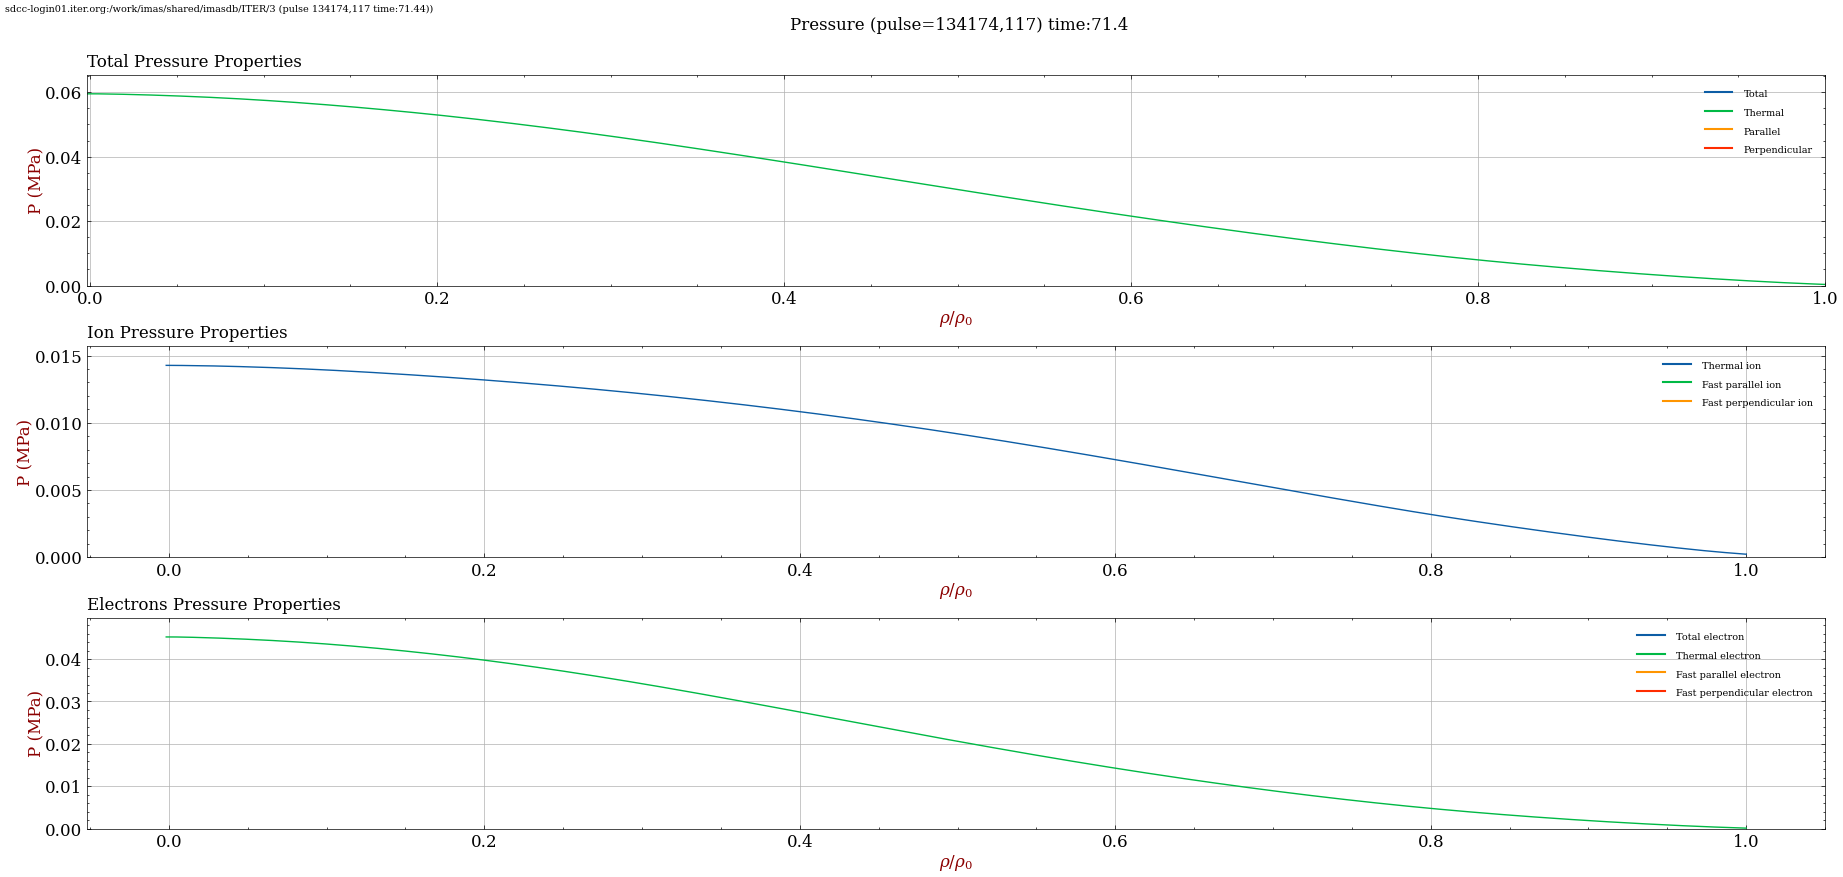
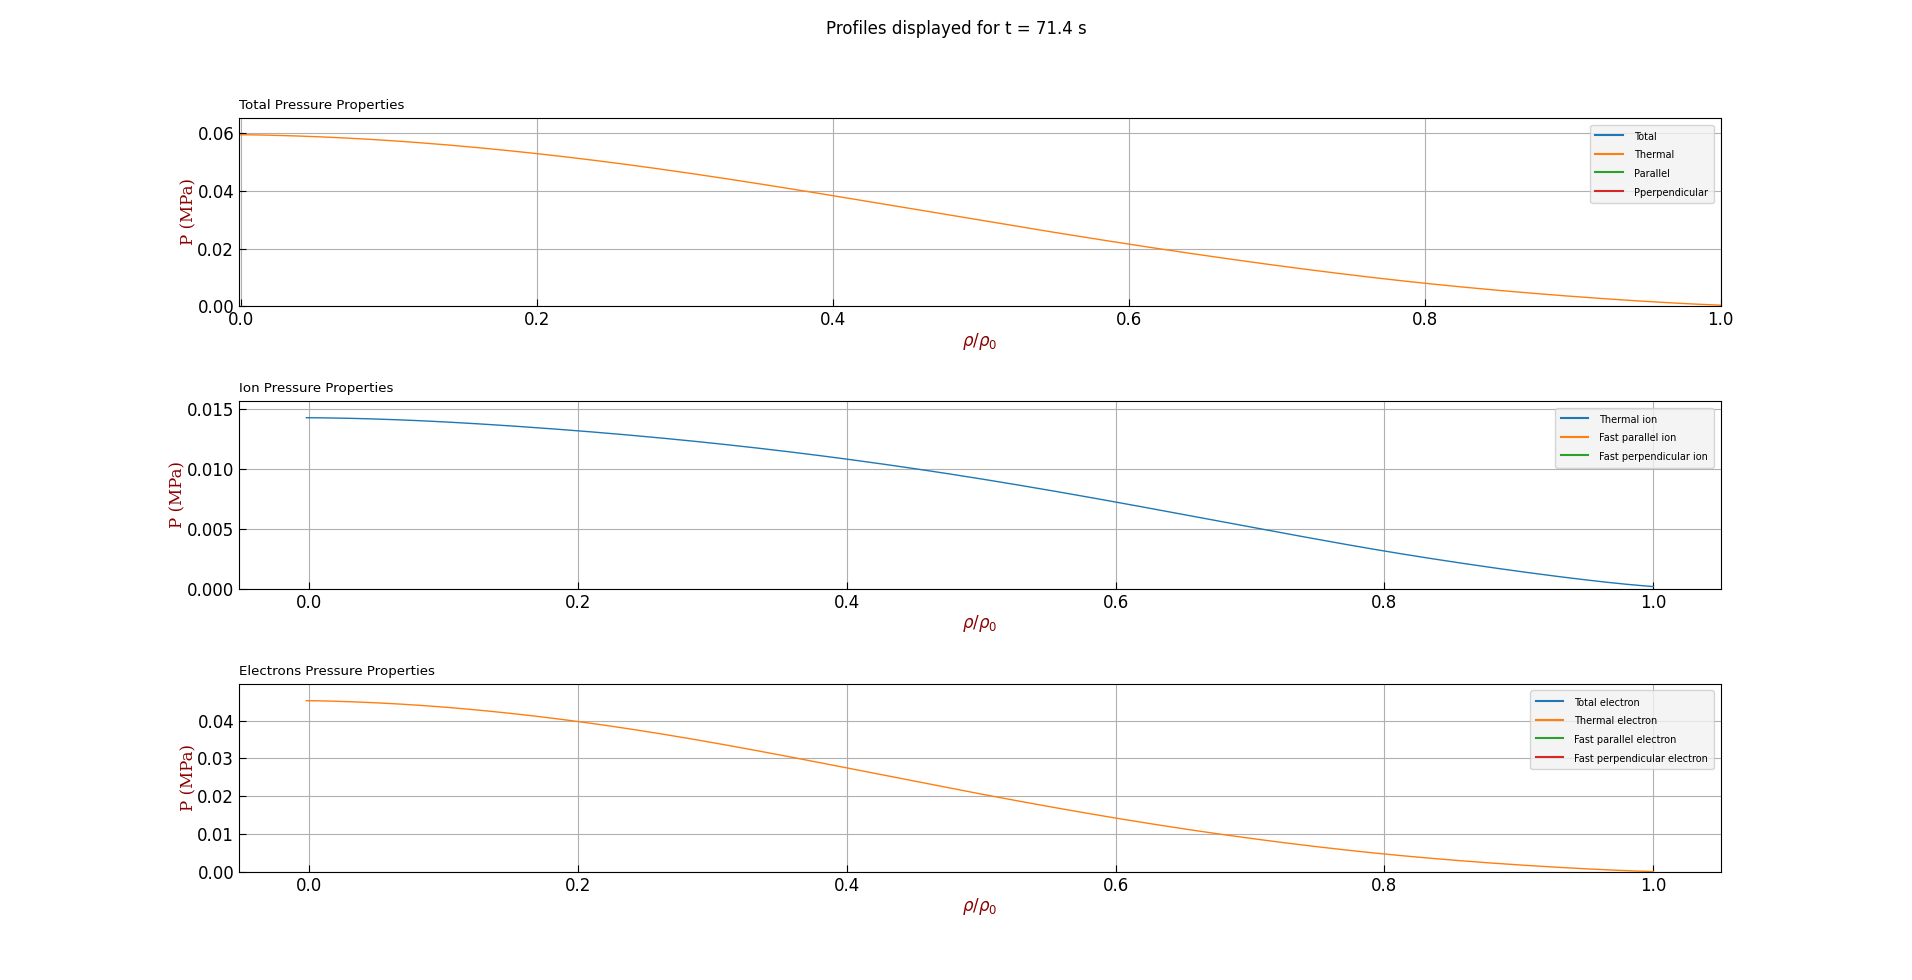
fixed image issue in the documentation and dblist now supports showing uris

diff --git a/docs/source/viewcoresources.rst b/docs/source/viewcoresources.rst
@@ -25,7 +25,10 @@ Power, particle and current profiles.
         Core_sources contains 1 source
         
 
-    .. thumbnail:: _static/images/viewcoresources.png
+    .. thumbnail:: _static/images/viewcoresources1.png
         :alt: image not found
         :align: center
 
+    .. thumbnail:: _static/images/viewcoresources2.png
+        :alt: image not found
+        :align: center

diff --git a/docs/source/viewpressure.rst b/docs/source/viewpressure.rst
@@ -35,6 +35,6 @@ core_profiles.
         Empty profiles_1d[0].electrons.pressure_fast_parallel
         Empty profiles_1d[0].electrons.pressure_fast_perpendicular
 
-   .. thumbnail:: _static/images/plot_pressure.png
+   .. thumbnail:: _static/images/viewpressure.png
       :alt: image not found
       :align: center

diff --git a/docs/source/viewneutron.rst b/docs/source/viewneutron.rst
@@ -35,3 +35,7 @@ retrieves from distribution_sources IDS
     .. thumbnail:: _static/images/viewneutron.png
         :alt: image not found
         :align: center
+
+    .. thumbnail:: _static/images/viewneutron2.png
+        :alt: image not found
+        :align: center
